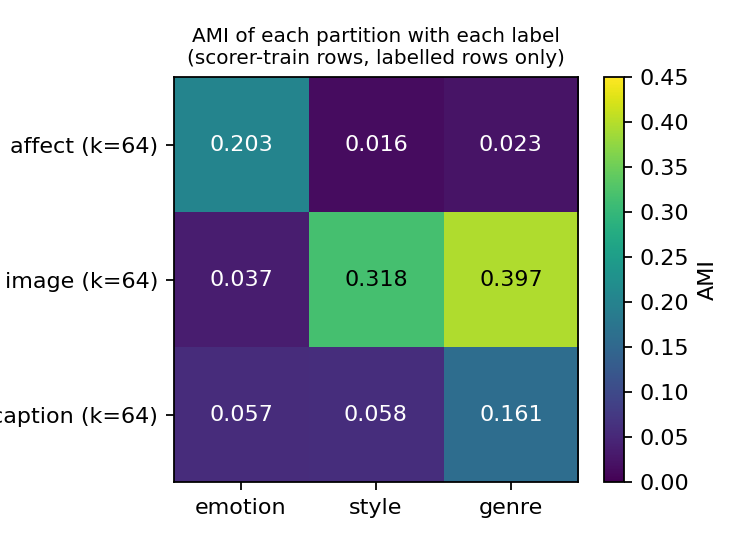
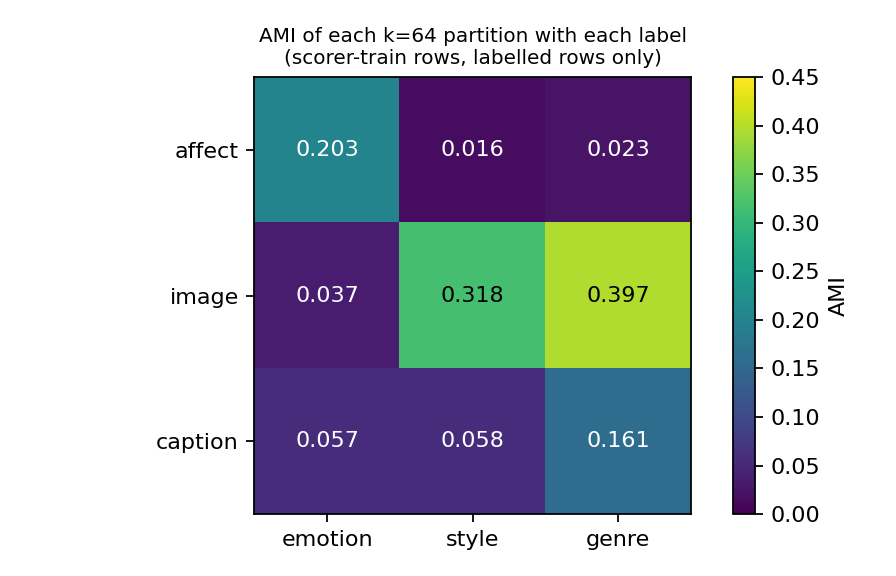
docs(v2): E2 report: readable AMI heatmap, saved null evidence
Claude-Session: https://claude.ai/code/session_01V6ud3G8RDSNWh9FEoUC5oY

Changed region(s): [[0.0, 0.0312, 0.9688, 0.9688], [0.4688, 0.7188, 0.5625, 0.7812]]

diff --git a/docs/reports/assets/2026-10-31_pseudo_partitions/build_figure.py b/docs/reports/assets/2026-10-31_pseudo_partitions/build_figure.py
@@ -18,20 +18,28 @@ RES = ROOT / "src/test/20261031_pseudo_partitions/results"
 rec = json.loads((RES / "build_record.json").read_text())["ami"]
 parts, labs = ["affect", "image", "caption"], ["emotion", "style", "genre"]
 m = np.array([[rec[p][l] for l in labs] for p in parts])
-fig, ax = plt.subplots(figsize=(4.6, 3.4))
+fig, ax = plt.subplots(figsize=(5.6, 3.6))
 im = ax.imshow(m, cmap="viridis", vmin=0, vmax=0.45)
-ax.set_xticks(range(3), labs); ax.set_yticks(range(3), [f"{p} (k=64)" for p in parts])
+ax.set_xticks(range(3), labs); ax.set_yticks(range(3), parts)
 for i in range(3):
     for j in range(3):
         ax.text(j, i, f"{m[i, j]:.3f}", ha="center", va="center", color="w" if m[i, j] < 0.25 else "k")
-ax.set_title("AMI of each partition with each label\n(scorer-train rows, labelled rows only)", fontsize=9)
+ax.set_title("AMI of each k=64 partition with each label\n(scorer-train rows, labelled rows only)", fontsize=9)
 fig.colorbar(im, ax=ax, label="AMI"); fig.tight_layout()
 fig.savefig(Path(__file__).parent / "ami_heatmap.png", dpi=160)
 
 data = load_artelingo(); st = artelingo_splits(data).scorer_train
 labels = artelingo_aspect_labels(data); P = np.load(RES / "partitions.npz")
 rng = np.random.default_rng(0)
+out = {"seed": 0, "shuffles": 5, "null": {}, "catch_all_kept": {}}
 for p, l in (("affect", "emotion"), ("image", "genre"), ("caption", "genre")):
     y = labels[l][st]; ok = y >= 0
-    null = [ami(rng.permutation(y[ok]), P[p][ok]) for _ in range(5)]
+    null = [float(ami(rng.permutation(y[ok]), P[p][ok])) for _ in range(5)]
+    out["null"][f"{p}_vs_{l}"] = {"values": null, "mean": float(np.mean(null))}
     print(f"null {p} vs {l}: mean {np.mean(null):.5f} min {min(null):.5f} max {max(null):.5f}")
+from src.data.artelingo_splits import encode_labels  # noqa: E402
+em_all = encode_labels(data.emotions)[0][st]          # catch-all kept as its own class
+for p in parts:
+    out["catch_all_kept"][f"{p}_vs_emotion"] = float(ami(em_all, P[p]))
+print(out["catch_all_kept"])
+(Path(__file__).parent / "ami_null.json").write_text(json.dumps(out, indent=2))

diff --git a/docs/reports/auto/v2/2026-10-31_pseudo_partitions.md b/docs/reports/auto/v2/2026-10-31_pseudo_partitions.md
@@ -34,9 +34,9 @@ Row alignment was verified before any copy: the scorer-train order from `artelin
 
 ![AMI heatmap](../../assets/2026-10-31_pseudo_partitions/ami_heatmap.png)
 
-Baselines. (a) Chance: we shuffled the labels and recomputed AMI (5 shuffles each, build_figure.py): affect vs emotion mean 0.00001 (range -0.00003 to 0.00004), image vs genre mean -0.00002, caption vs genre -0.00000. Every cell above 0.015 is therefore far above the empirical null. (b) The earlier prepares recorded affect vs emotion 0.1960, affect vs style 0.0157, image vs emotion 0.0352, image vs style 0.3176, and CLIP caption clusters vs emotion 0.0557 and style 0.0582. Our style cells match those records to 12 digits (affect 0.0157, image 0.3176, caption 0.0582), which also confirms the caption k-means reproduces the earlier caption clustering and that all three arrays are aligned with the same rows. Genre was not recorded before, so for genre the baseline is the null.
+Baselines. (a) Chance: we shuffled the labels and recomputed AMI (5 shuffles each, seed 0; per-shuffle values in `docs/reports/assets/2026-10-31_pseudo_partitions/ami_null.json`): affect vs emotion mean 0.00001 (range -0.00003 to 0.00004), image vs genre mean -0.00002, caption vs genre -0.00000. Every cell above 0.015 is therefore far above the empirical null. (b) The earlier prepares recorded affect vs emotion 0.1960, affect vs style 0.0157, image vs emotion 0.0352, image vs style 0.3176, and CLIP caption clusters vs emotion 0.0557 and style 0.0582. Our style cells match those records to 12 digits (affect 0.0157, image 0.3176, caption 0.0582), which also confirms the caption k-means reproduces the earlier caption clustering and that all three arrays are aligned with the same rows. Genre was not recorded before, so for genre the baseline is the null.
 
-**Why the emotion cells differ from the record.** Our affect vs emotion is 0.2035 against a recorded 0.1960. We recomputed the AMI with the catch-all "something else" emotion kept as its own class (all 183,694 rows) and got 0.19601969782711, equal to the record to 13 digits. The earlier prepare therefore included the catch-all class, while `artelingo_aspect_labels` excludes it (as the evaluation does). The two numbers are the same partition on different row sets, not a discrepancy. The same cause explains image vs emotion 0.0367 against 0.0352 and caption 0.0566 against 0.0557.
+**Why the emotion cells differ from the record.** Our affect vs emotion is 0.2035 against a recorded 0.1960. We recomputed the AMI with the catch-all "something else" emotion kept as its own class (all 183,694 rows) and got 0.19601969782711, equal to the record to 13 digits. The earlier prepare therefore included the catch-all class, while `artelingo_aspect_labels` excludes it (as the evaluation does). The two numbers are the same partition on different row sets, not a discrepancy. The same recomputation with the catch-all kept gives image vs emotion 0.03517 and caption vs emotion 0.05569, matching the recorded 0.0352 and 0.0557 (also in `ami_null.json`, key `catch_all_kept`).
 
 The diagonal is what we intended: affect carries emotion (0.2035, with almost no style or genre), and image carries style (0.3176). The caption partition is a mixed content partition, strongest on genre (0.1613), weak on the other two.
 
